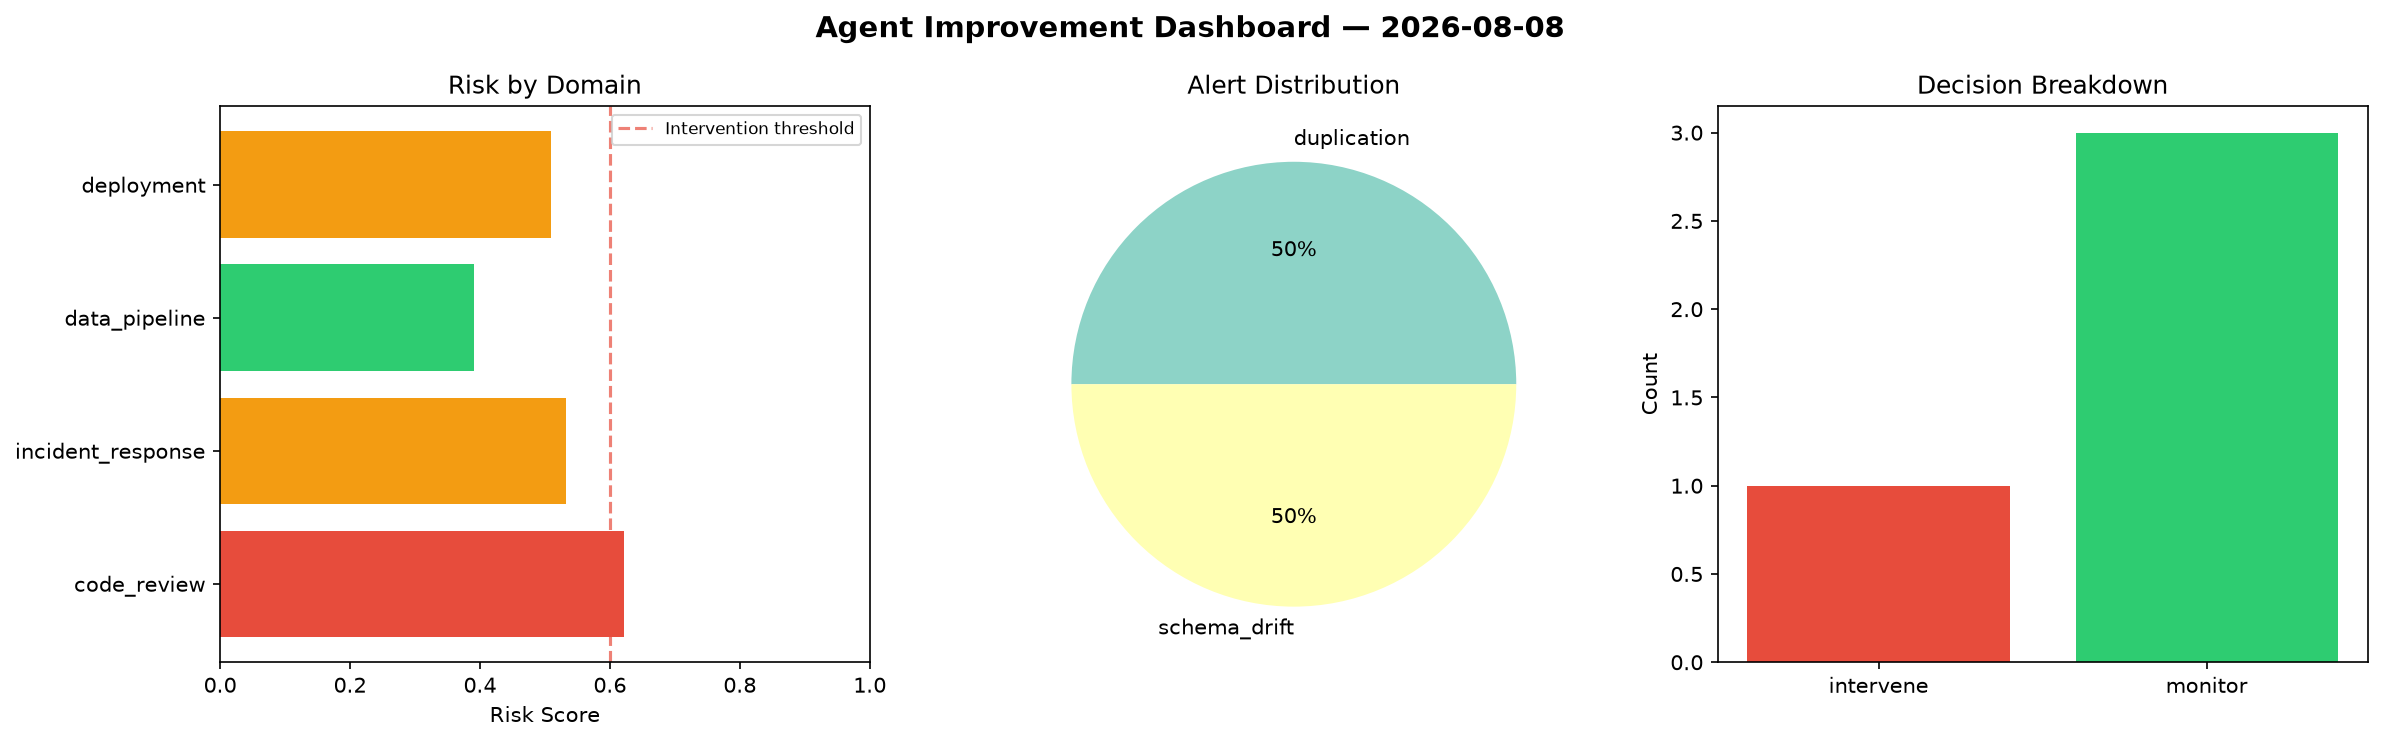
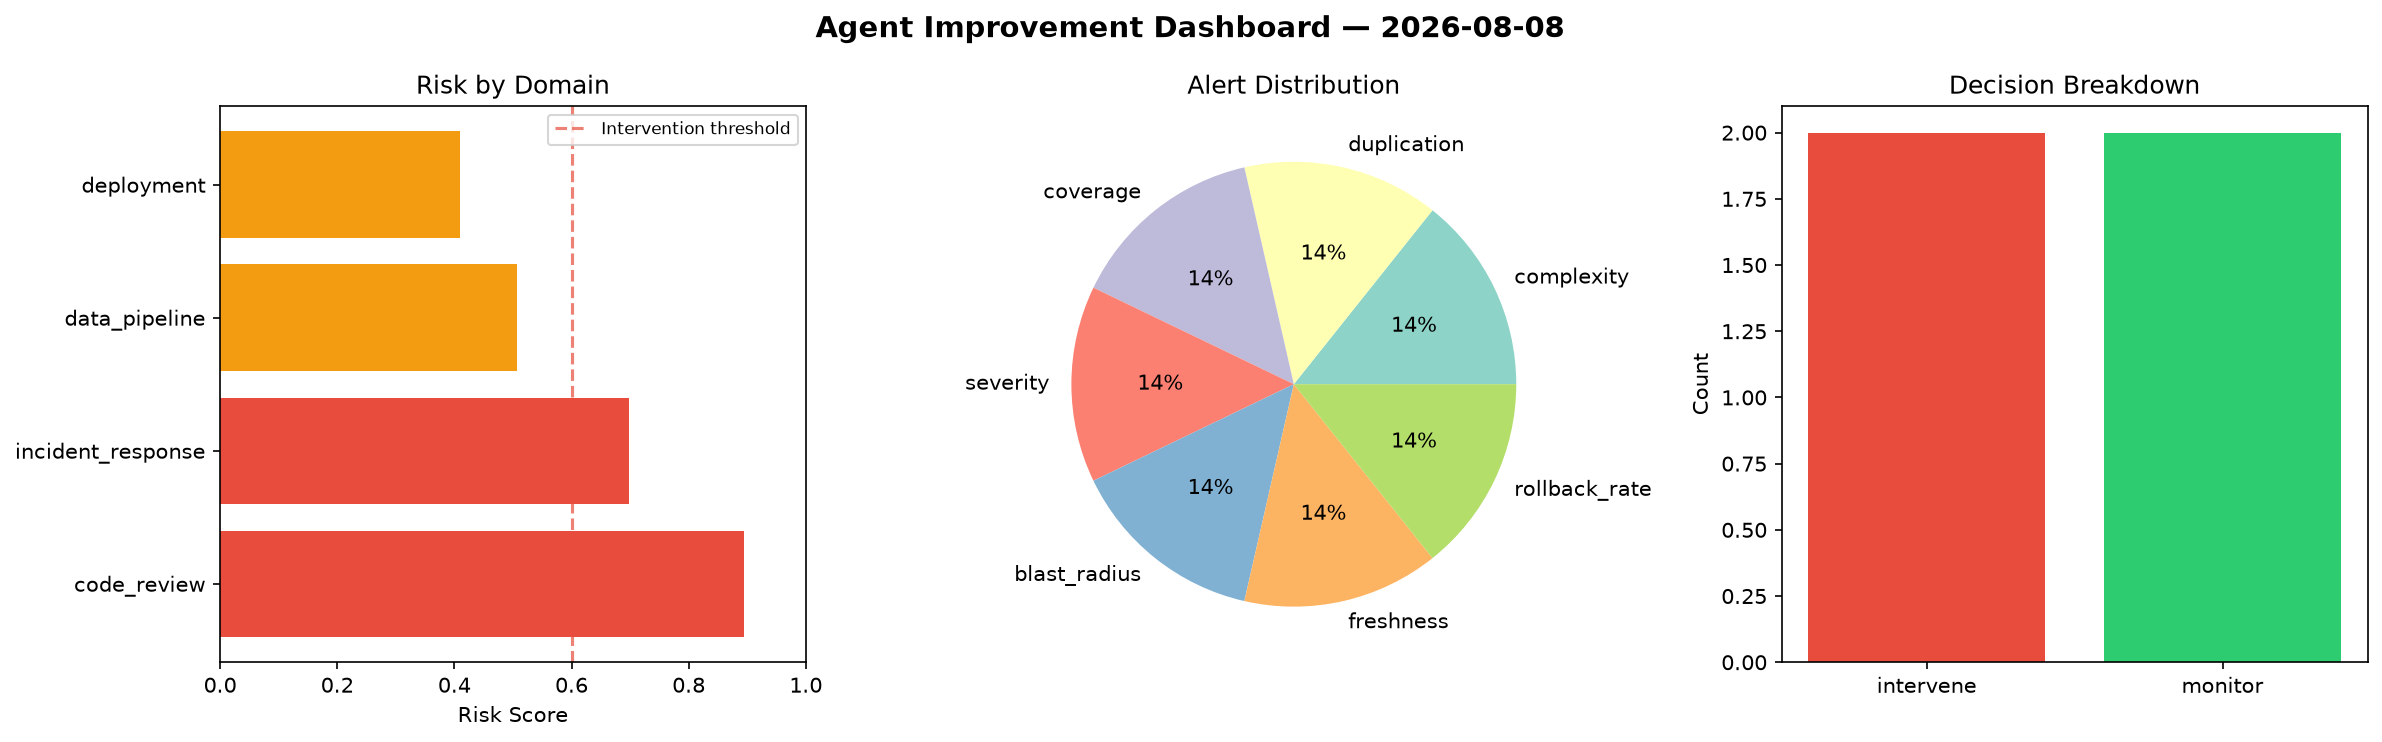
agent-improvement: daily cycle 2026-08-08T14:49

diff --git a/logs/2026-08-08.md b/logs/2026-08-08.md
@@ -1,6 +1,6 @@
 # Agent Improvement Report — 2026-08-08
 
-**Cycle ID:** `e8e3943a` | **Avg Risk:** 0.5138 | **Interventions:** 1/4
+**Cycle ID:** `ea5a6a03` | **Avg Risk:** 0.6272 | **Interventions:** 2/4
 
 ![Dashboard](2026-08-08_dashboard.png)
 
@@ -10,18 +10,18 @@
 
 | Domain | Risk Score | Decision | Alerts |
 |--------|-----------|----------|--------|
-| code_review | 0.6222 | intervene | duplication |
-| incident_response | 0.5329 | monitor | none |
-| data_pipeline | 0.3903 | monitor | schema_drift |
-| deployment | 0.5099 | monitor | none |
+| code_review | 0.8938 | intervene | complexity, duplication, coverage |
+| incident_response | 0.6984 | intervene | severity, blast_radius |
+| data_pipeline | 0.5065 | monitor | freshness |
+| deployment | 0.4103 | monitor | rollback_rate |
 
 ## Delta vs Yesterday
 
 | Domain | Today | Yesterday | Change |
 |--------|-------|-----------|--------|
-| code_review | 0.6222 | 0.365 | 📈 70.5% |
-| incident_response | 0.5329 | 0.4429 | 📈 20.3% |
-| data_pipeline | 0.3903 | 0.5596 | 📉 -30.3% |
-| deployment | 0.5099 | 0.5639 | 📉 -9.6% |
+| code_review | 0.8938 | 0.365 | 📈 144.9% |
+| incident_response | 0.6984 | 0.4429 | 📈 57.7% |
+| data_pipeline | 0.5065 | 0.5596 | 📉 -9.5% |
+| deployment | 0.4103 | 0.5639 | 📉 -27.2% |
 
 **Refinement:** `{'adjustment': 'maintain', 'trend': 'improving', 'window': 4}`
